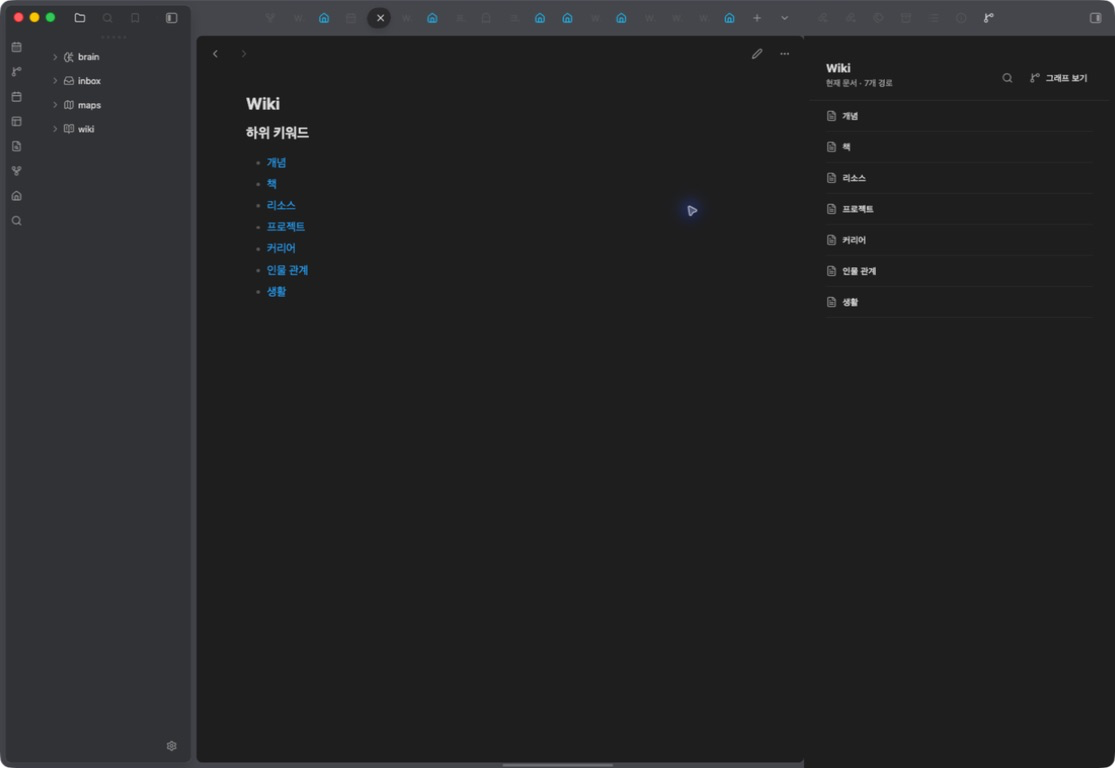
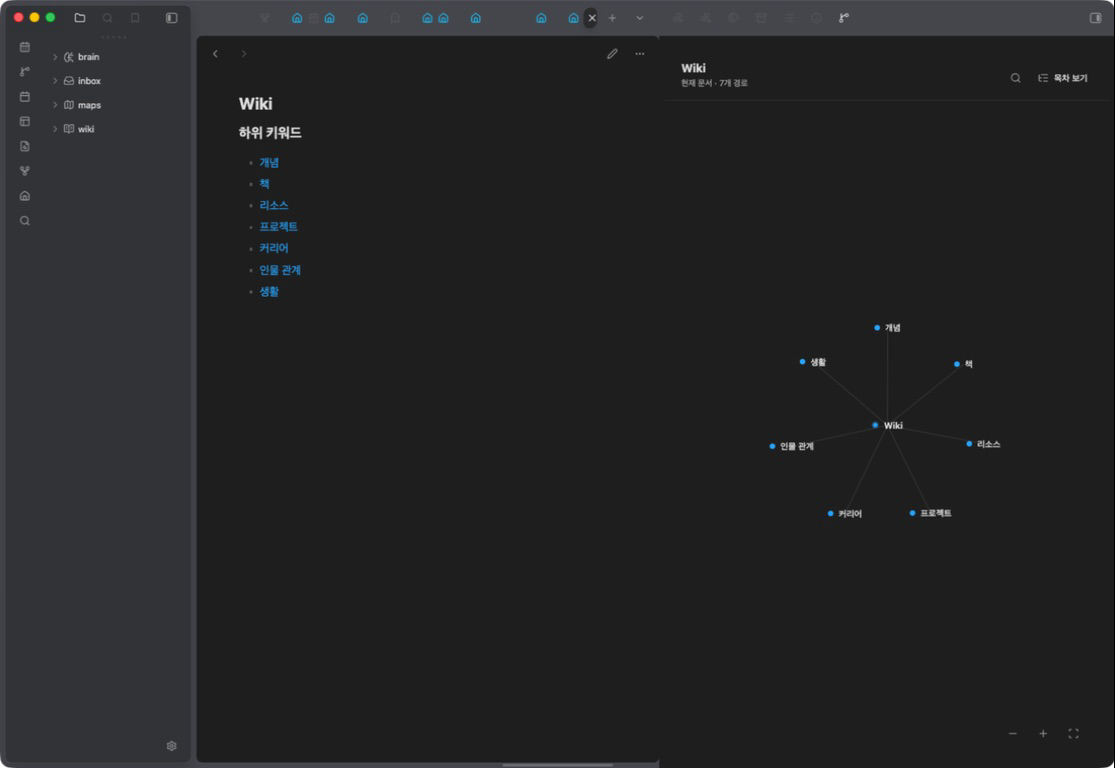
docs: record final force graph runtime QA

diff --git a/docs/design-qa.md b/docs/design-qa.md
@@ -6,28 +6,30 @@
 
 ## Compared reference
 
-The private product reference was checked locally at 1487×1059 and was not copied into this public repository. It establishes five surfaces: a plain Wiki heading, a route count, hairline link rows, one compact `그래프 보기` action, and no card container.
+The user-supplied 455×400 failure capture and the final 455×400 graph-stage crop were placed side by side locally. The reference exposed two blocking faults: direct-link titles collapsed to unlabeled dots, and the custom over-damped layout stopped responding like a force graph.
 
-The implementation was captured in Obsidian 1.13.7 at 1115×768 with `wiki/README.md` active. A local-only 2480×494 side-by-side comparison preserves the supplied reference and the runtime evidence without publishing private workspace context.
+The final implementation was captured in Obsidian 1.13.7 at 1115×768 with `wiki/README.md` active and the Linked Graph sidebar widened to the same 455px reference width. The local-only comparison is stored outside release media.
 
-## Fidelity review
+## Fidelity and interaction review
 
 | Surface | Result | Evidence |
 |---|---|---|
-| Information hierarchy | passed | `Wiki` and `현재 문서 · 7개 경로` lead directly into seven authored routes. |
-| Typography and density | passed | One title, one muted count, and 36px rows remain readable without descriptions or metadata cards. |
-| Shape and separation | passed | Hairline separators define rows; no root card, route card, badge, shadow, or rounded panel remains. |
-| Colour and state | passed | Only canonical links and the active graph node use the host accent; all other hierarchy uses theme text and divider tokens. |
-| Interaction | passed | Outline is the default; `그래프 보기` projects the same seven links as a one-hop graph and `목차 보기` returns without saved layout state. |
-| Canonical navigation | passed | Outline links and graph nodes open the original Markdown note in the main editor. |
-| Docking boundary | passed | The selected product contract keeps the navigator in the right sidebar so the canonical editor remains visible; it does not reproduce the reference's bottom docking. |
-| Narrow pane | passed | Titles truncate without overlap and the graph uses labels plus connector lines rather than resizable cards. |
-| Accessibility | passed | The outline exposes list semantics, every route is a native button, and the view switch has an accessible label and pressed state. |
+| Graph grammar | passed | The current Markdown note is the fixed centre, seven resolved outgoing links are surrounding nodes, and each authored link is one visible edge. |
+| Route labels | passed | Every direct route keeps a visible title; content-sized native buttons no longer collapse to bare dots. |
+| Motion | passed | `d3-force` link, charge, and collision forces replace the stopped custom loop. Dragging reheats the simulation and releasing a node lets the neighbourhood settle again. |
+| Viewport safety | passed | A dragged `Wiki` node remained visible after settling; moving nodes are bounded by measured node and sidebar dimensions, and resize reheats the layout. |
+| Navigation | passed | Clicking the `Wiki` graph node opened `wiki/README.md`, and the sidebar immediately changed from eight home routes to seven Wiki routes. |
+| Pan and zoom | passed | Background drag pans the world; icon controls zoom out, zoom in, and reset the viewport without writing layout state. |
+| Information hierarchy | passed | Current note title and route count remain in the header; the graph itself contains only dots, titles, edges, and quiet controls. |
+| Colour and shape | passed | Host theme text, divider, and accent tokens are used; nodes have no cards, fills, shadows, badges, or plugin-owned palette. |
+| Canonical boundary | passed | Graph, outline, search, and motion are read-only projections; Markdown and Vault relationships are never modified. |
+| Accessibility | passed | Route nodes and controls are native buttons with accessible names, the graph has a labelled group, and focus styling follows the host theme. |
 
 ## Iterations
 
 1. Rejected expandable cards and cached descendant previews because they duplicated Wiki structure.
-2. Rejected the first one-hop render because native button surfaces still appeared as cards.
-3. Removed button fills, rounded borders, counts, and duplicate labels; retained only dots, connectors, and canonical titles.
+2. Rejected the first static branch layout because it only looked graph-like and did not implement force motion.
+3. Replaced the over-damped custom loop with `d3-force`, drag reheating, collision, and natural settling.
+4. Replaced zero-width label tracks with content-sized flex nodes and added viewport bounds for dragged and resized states.
 
-final result: pending runtime verification for 1.2.0
+final result: passed
